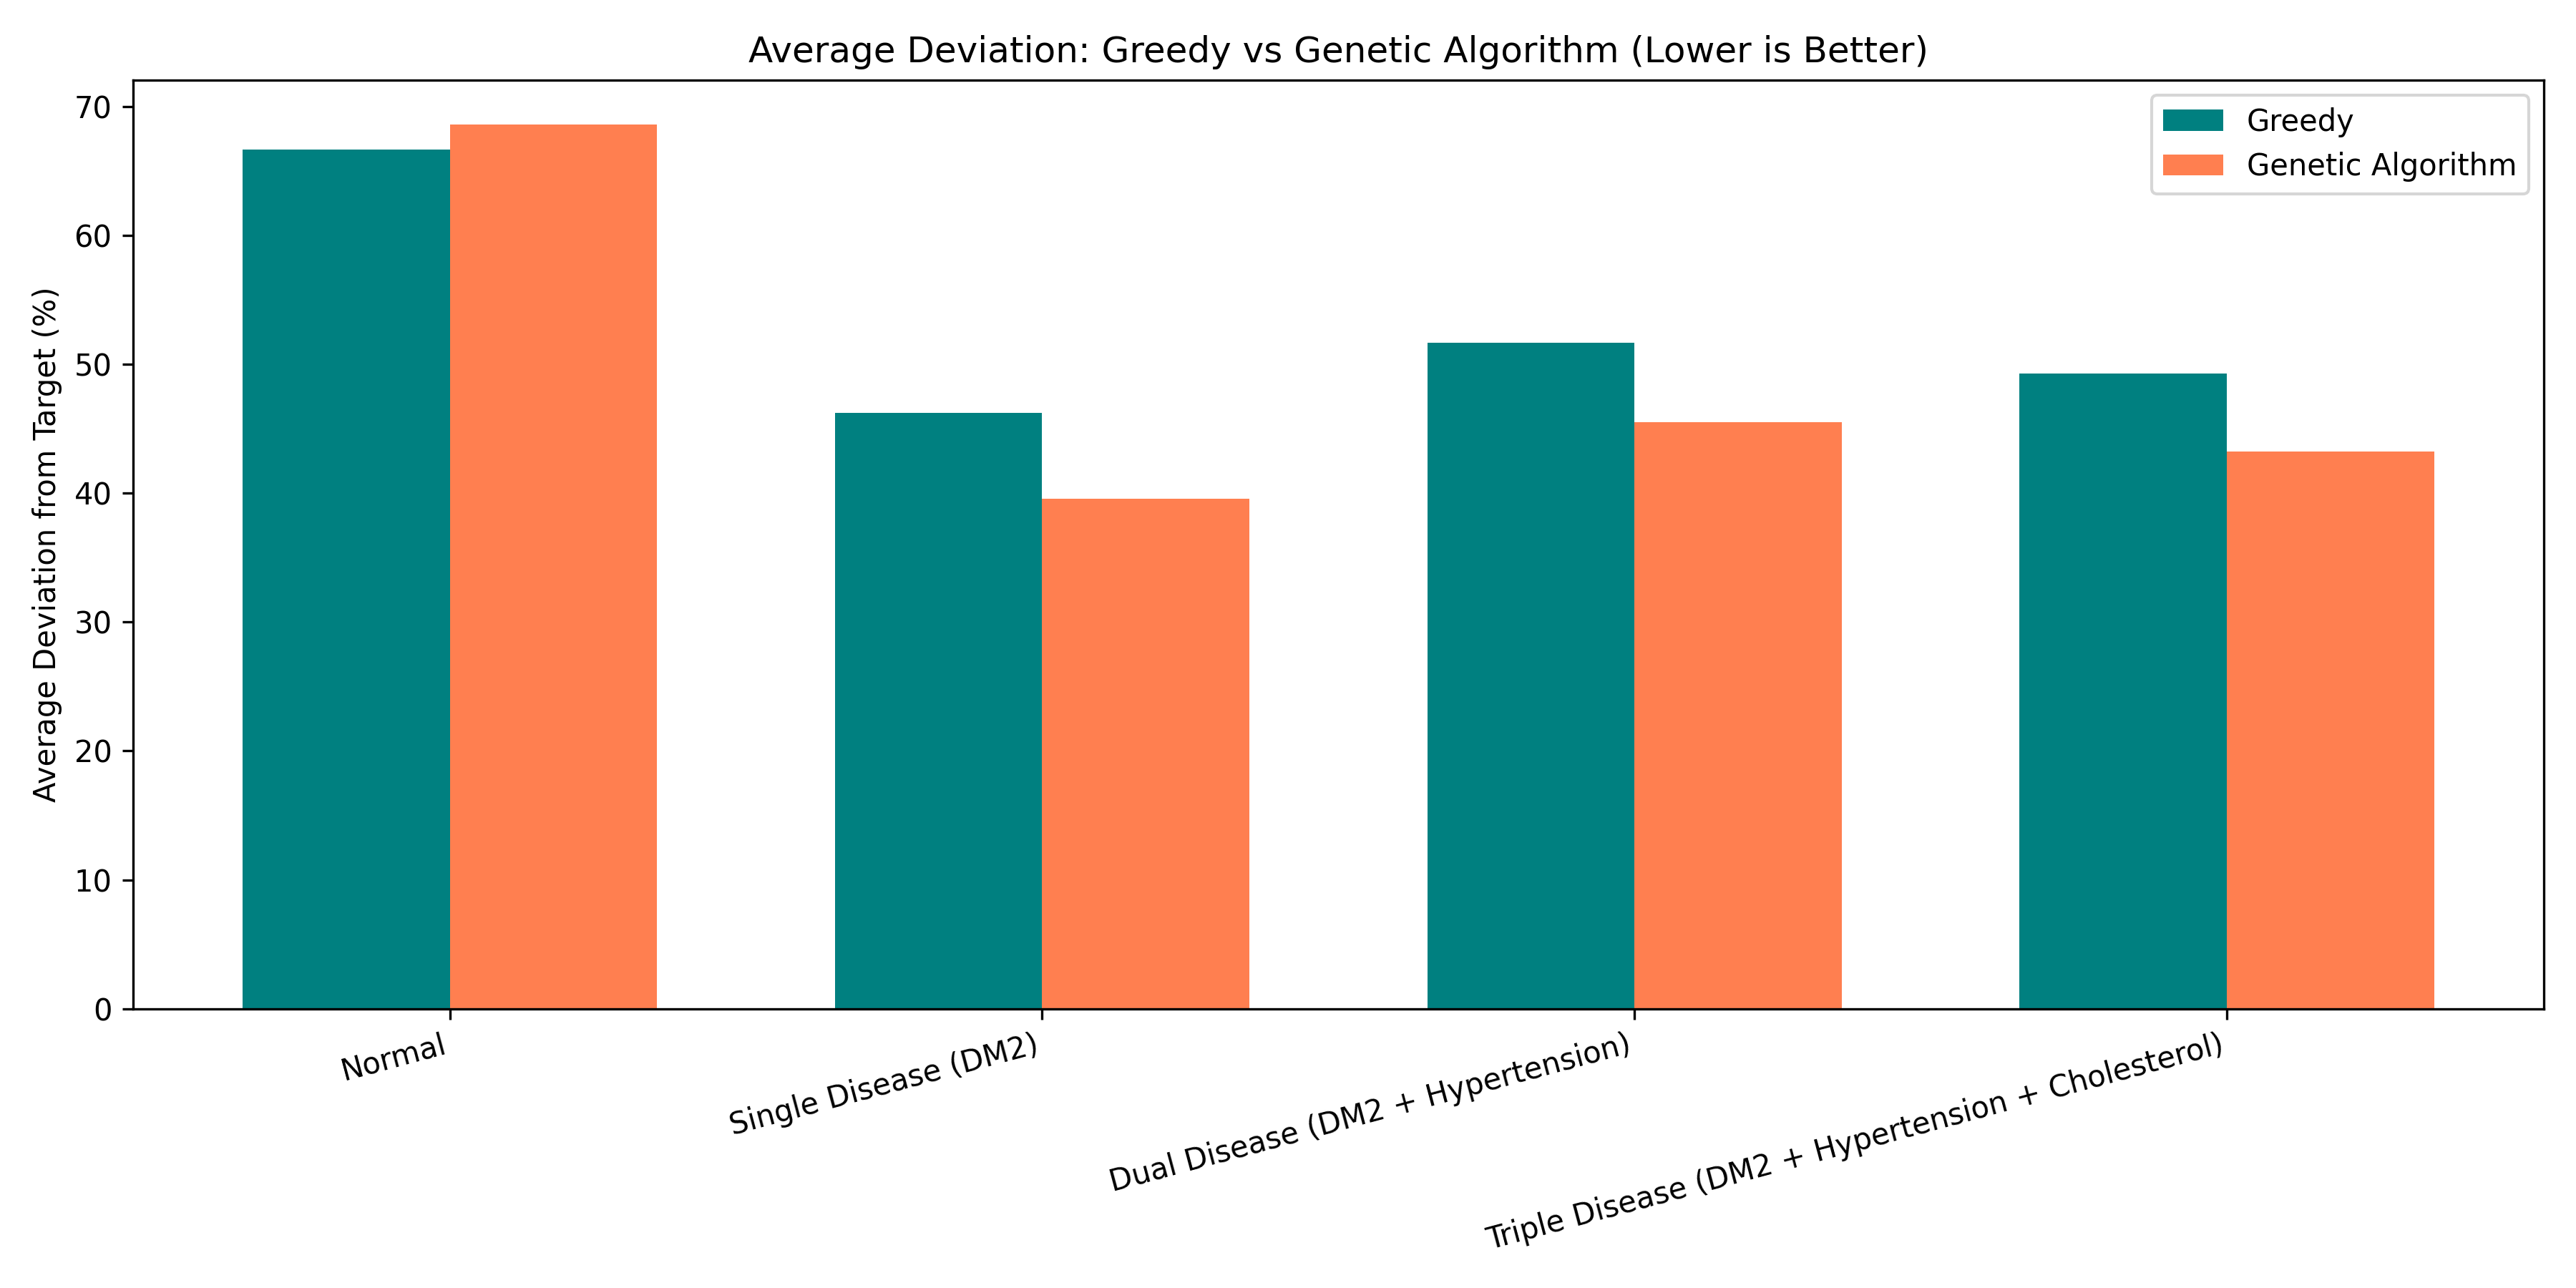
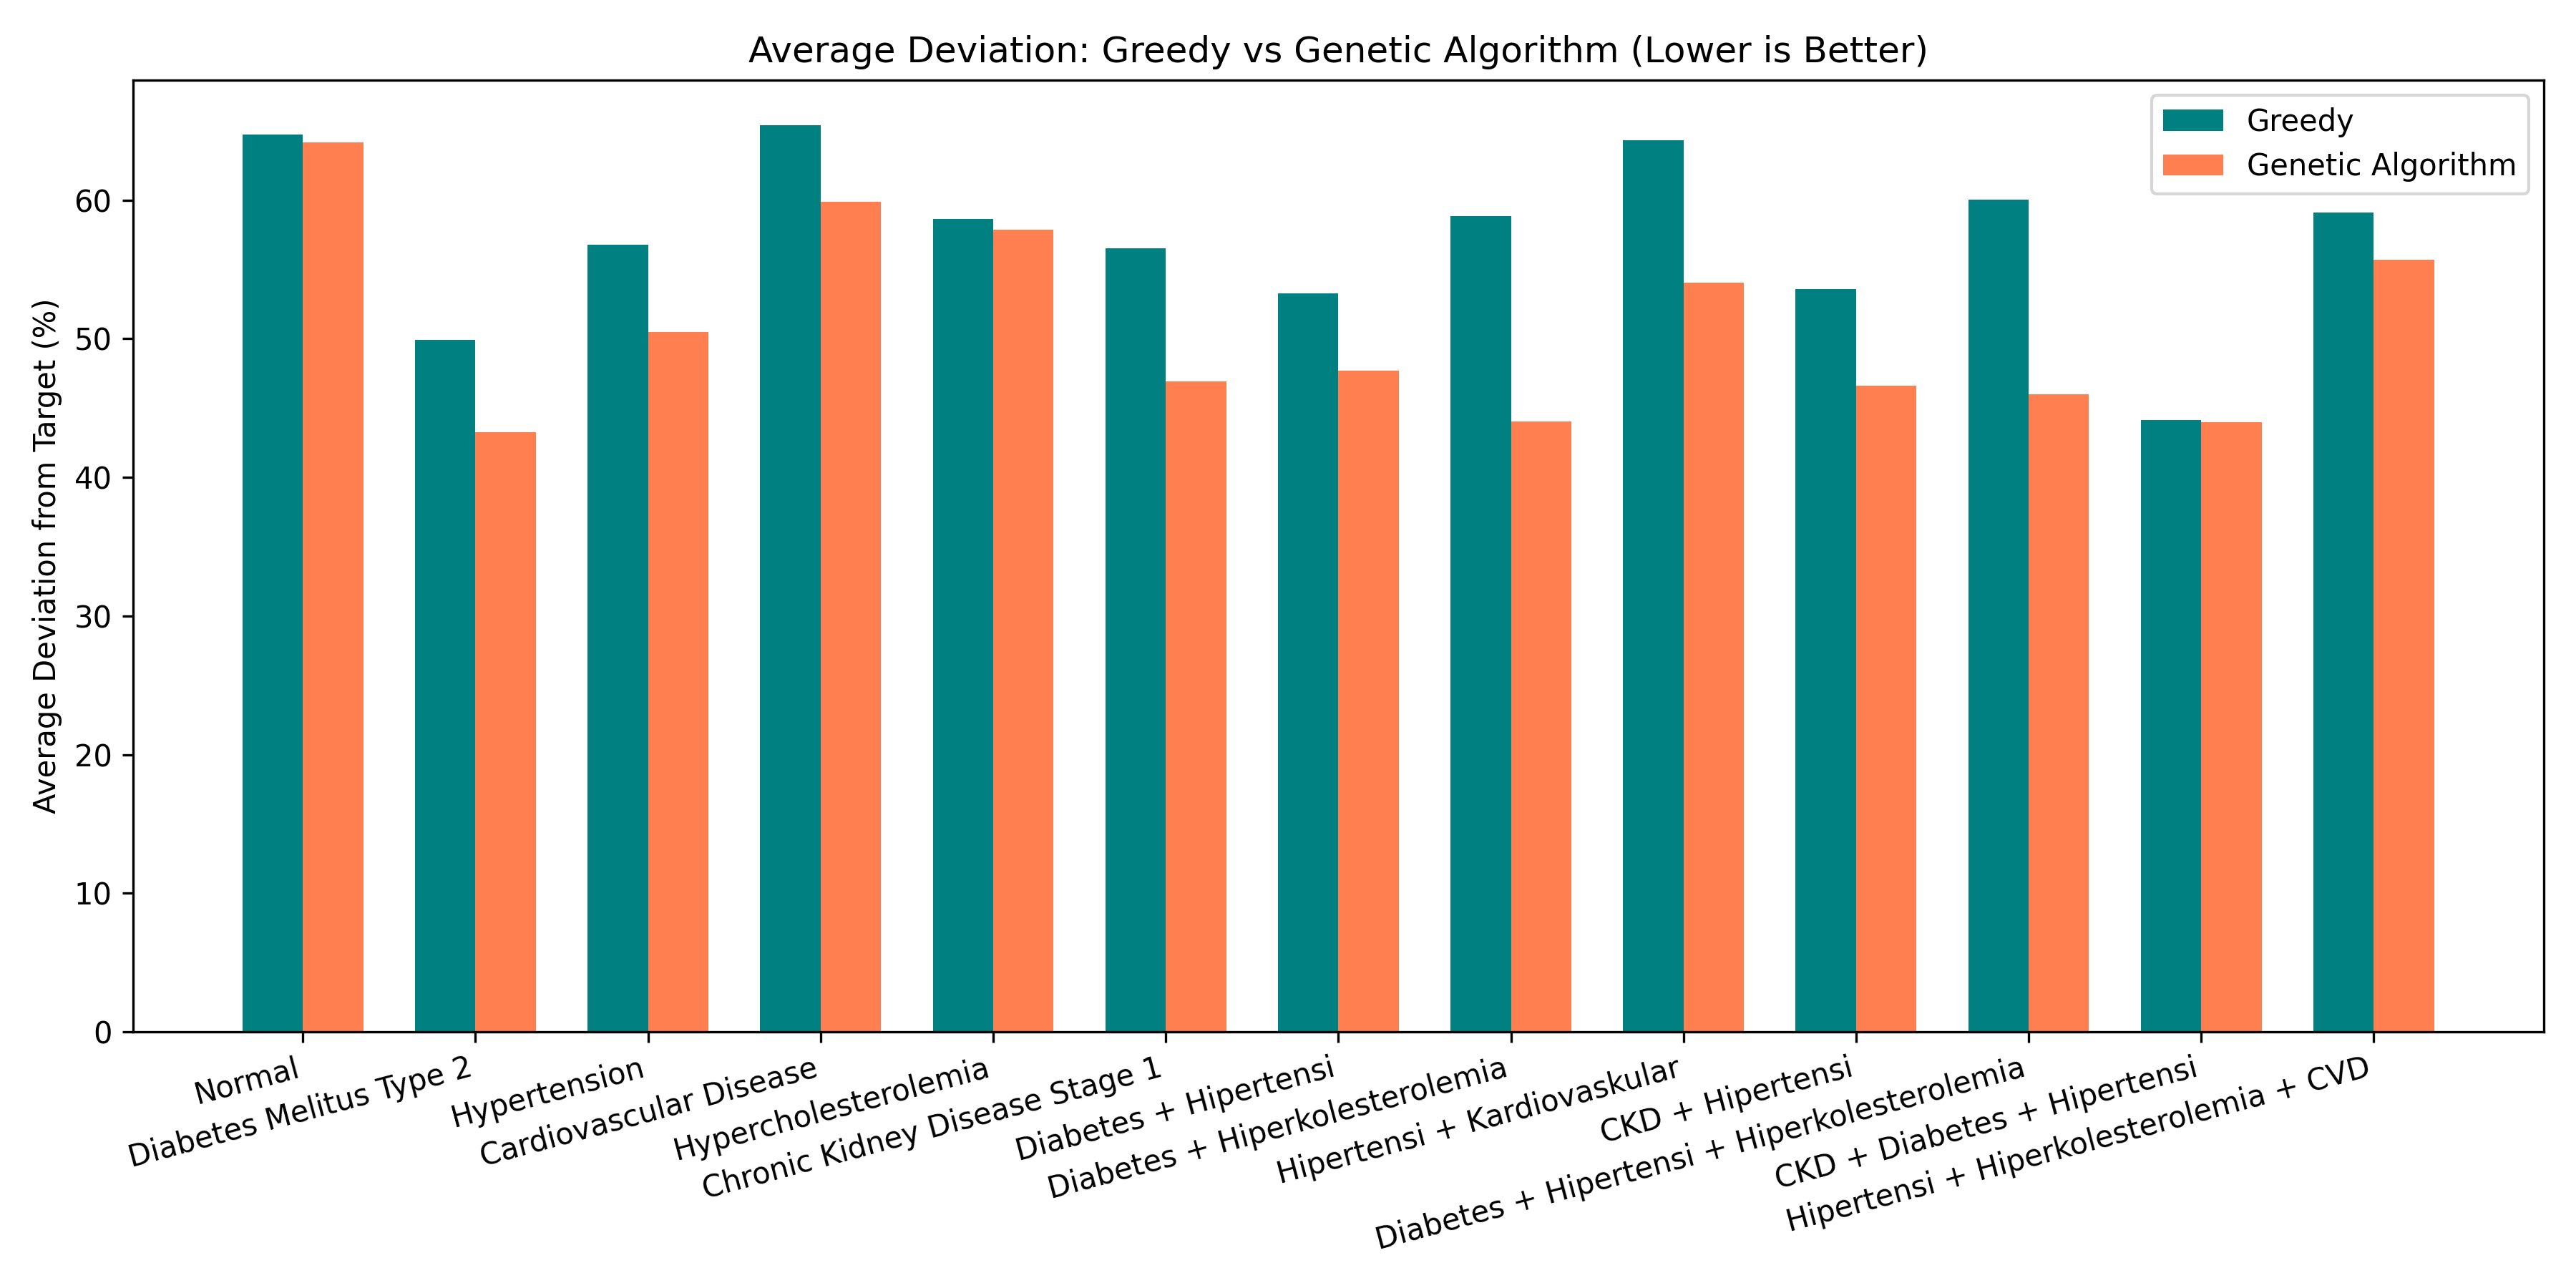
fast food

diff --git a/B. Preprocessing/06_advanced_cleaning.py b/B. Preprocessing/06_advanced_cleaning.py
@@ -223,6 +223,46 @@ def bersihkan_dataset(input_file, output_file):
     print(f"[FILTER 6e] Junk snacks fast food: {crit_junk_snack.sum()} items")
     print(f"[FILTER 6] Total fast food filter: {before - after} items removed")
 
+    # FILTER 7: Hapus sisa fast food chain brand besar
+    before = len(df_cleaned)
+    fast_food_mask = df_cleaned['food_group'].isin(['Fast Foods', 'Restaurant Foods'])
+
+    # Brand chain besar yang semua itemnya tidak cocok untuk diet penyakit kronis
+    chain_brand_keywords = [
+        "kfc,",
+        "popeyes,",
+        "burger king,",
+        "wendy's,",
+        "taco bell,",
+        "chick-fil-a,",
+        "arby's,",
+        "mcdonald's,",
+    ]
+
+    # Generic fast food items bermasalah (sodium/saturated fat tinggi)
+    generic_problematic = [
+        "fast food, biscuit",
+        "fast foods, biscuit, with crispy chicken",
+        "fast foods, roast beef sandwich, plain",
+        "fast foods, fried chicken, skin and breading",
+        "fast foods, fried chicken, thigh, meat and skin",
+        "fast foods, fried chicken, wing, meat and skin",
+        "fast foods, fried chicken, breast, meat and skin",
+    ]
+
+    all_remove = chain_brand_keywords + generic_problematic
+
+    filter7_mask = (
+        fast_food_mask &
+        df_cleaned['food_name'].str.lower().str.contains(
+            '|'.join([re.escape(k.lower()) for k in all_remove]), na=False
+        )
+    )
+
+    df_cleaned = df_cleaned[~filter7_mask]
+    after = len(df_cleaned)
+    print(f"[FILTER 7] Sisa fast food chain brand besar: {before - after} items removed")
+
     print(f"\n[SUMMARY] Dataset awal: {len(df)} items")
     print(f"[SUMMARY] Dataset final: {len(df_cleaned)} items")
     print(f"[SUMMARY] Total removed: {len(df) - len(df_cleaned)} items")

diff --git a/B. Preprocessing/cek.py b/B. Preprocessing/cek.py
@@ -1,39 +1,5 @@
 import pandas as pd
-
 df = pd.read_csv(r'C:\Users\Silfia\Documents\FILE TA\TugasAkhirDSS\A. Data\Data Processed\06_final_dataset.csv')
-fast = df[df['food_group'].isin(['Fast Foods', 'Restaurant Foods'])].copy()
-
-# Threshold per item yang lebih realistis
-# Sodium: budget harian 2300mg dibagi 28 slot ≈ 82mg per slot
-# tapi main course lebih besar, sekitar 200-400mg per item masih ok
-# Fat: budget harian misal 65g dibagi 28 slot ≈ 2.3g, main course ~10-15g ok
-# Saturated fat: max 10% TDEE (misal 2000kcal = 200kcal = 22g per hari)
-# per main course max ~7-8g saturated fat
-
-fast['flag_sodium'] = fast['sodium_mg'] > 800        # per item >800mg terlalu tinggi
-fast['flag_sat_fat'] = fast['saturated_fat_g'] > 8   # per item >8g saturated fat tinggi
-fast['flag_cholesterol'] = fast['cholesterol_mg'] > 200
-fast['flag_trans_fat'] = fast['trans_fat_g'] > 0.5
-fast['flag_fat'] = fast['fat_g'] > 25               # total fat >25g per item tinggi
-
-fast['n_flags'] = (fast['flag_sodium'].astype(int) + 
-                   fast['flag_sat_fat'].astype(int) +
-                   fast['flag_cholesterol'].astype(int) + 
-                   fast['flag_trans_fat'].astype(int) +
-                   fast['flag_fat'].astype(int))
-
-print(f"Sodium > 800mg: {fast['flag_sodium'].sum()} items")
-print(f"Saturated fat > 8g: {fast['flag_sat_fat'].sum()} items")
-print(f"Cholesterol > 200mg: {fast['flag_cholesterol'].sum()} items")
-print(f"Trans fat > 0.5g: {fast['flag_trans_fat'].sum()} items")
-print(f"Fat > 25g: {fast['flag_fat'].sum()} items")
-
-print(f"\nItems dengan 0 flag: {(fast['n_flags']==0).sum()}")
-print(f"Items dengan 1 flag: {(fast['n_flags']==1).sum()}")
-print(f"Items dengan 2+ flags: {(fast['n_flags']>=2).sum()}")
-
-print("\n" + "="*70)
-print("ITEMS DENGAN 0 FLAG (benar-benar aman secara nutrisi):")
-print("="*70)
-safe = fast[fast['n_flags']==0]
-print(safe[['food_name','sodium_mg','fat_g','saturated_fat_g','cholesterol_mg','trans_fat_g']].to_string())
+fast = df[df['food_group'].isin(['Fast Foods'])]
+print(f"Sisa fast food/restaurant: {len(fast)}")
+print(fast[['food_name', 'sodium_mg', 'fat_g', 'saturated_fat_g', 'cholesterol_mg']].to_string())